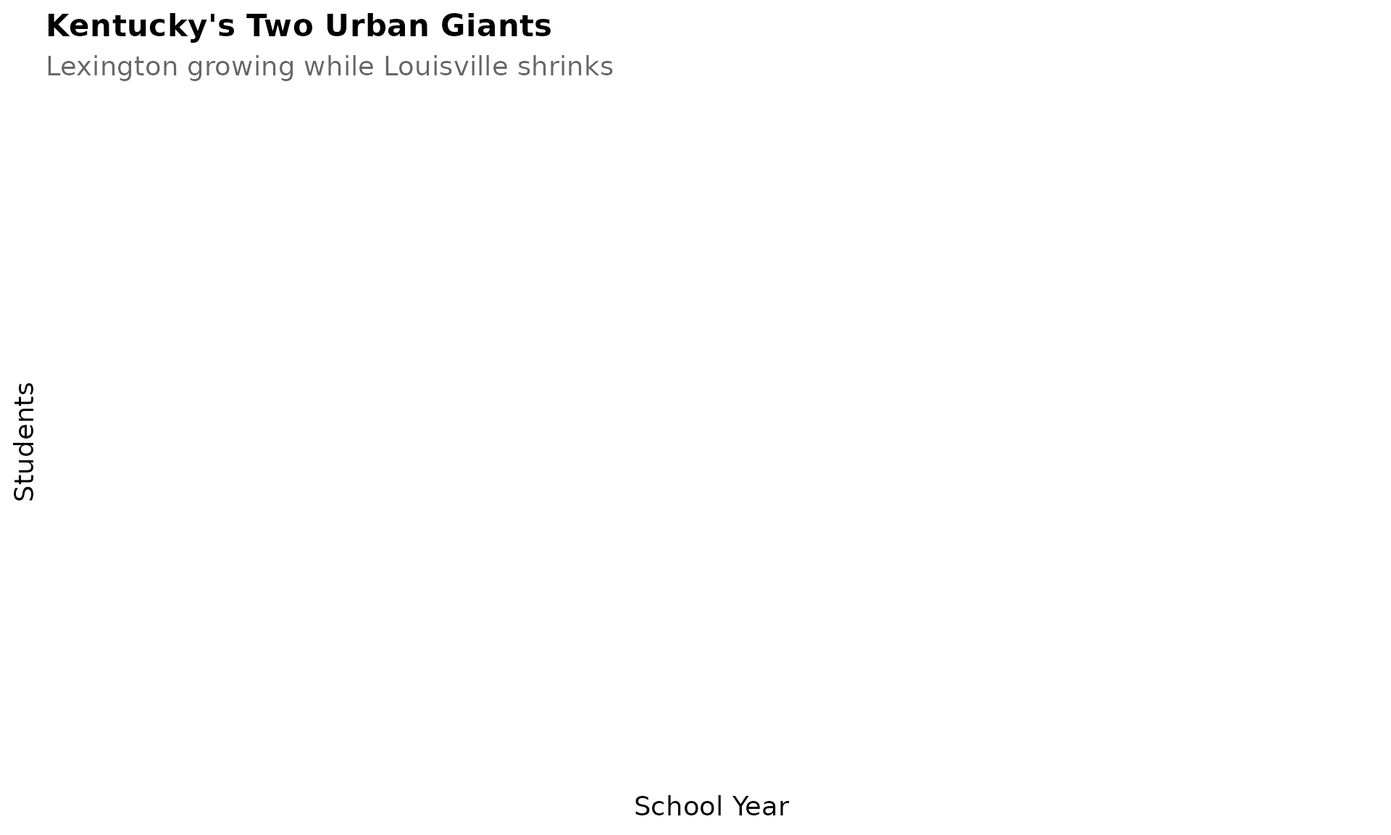
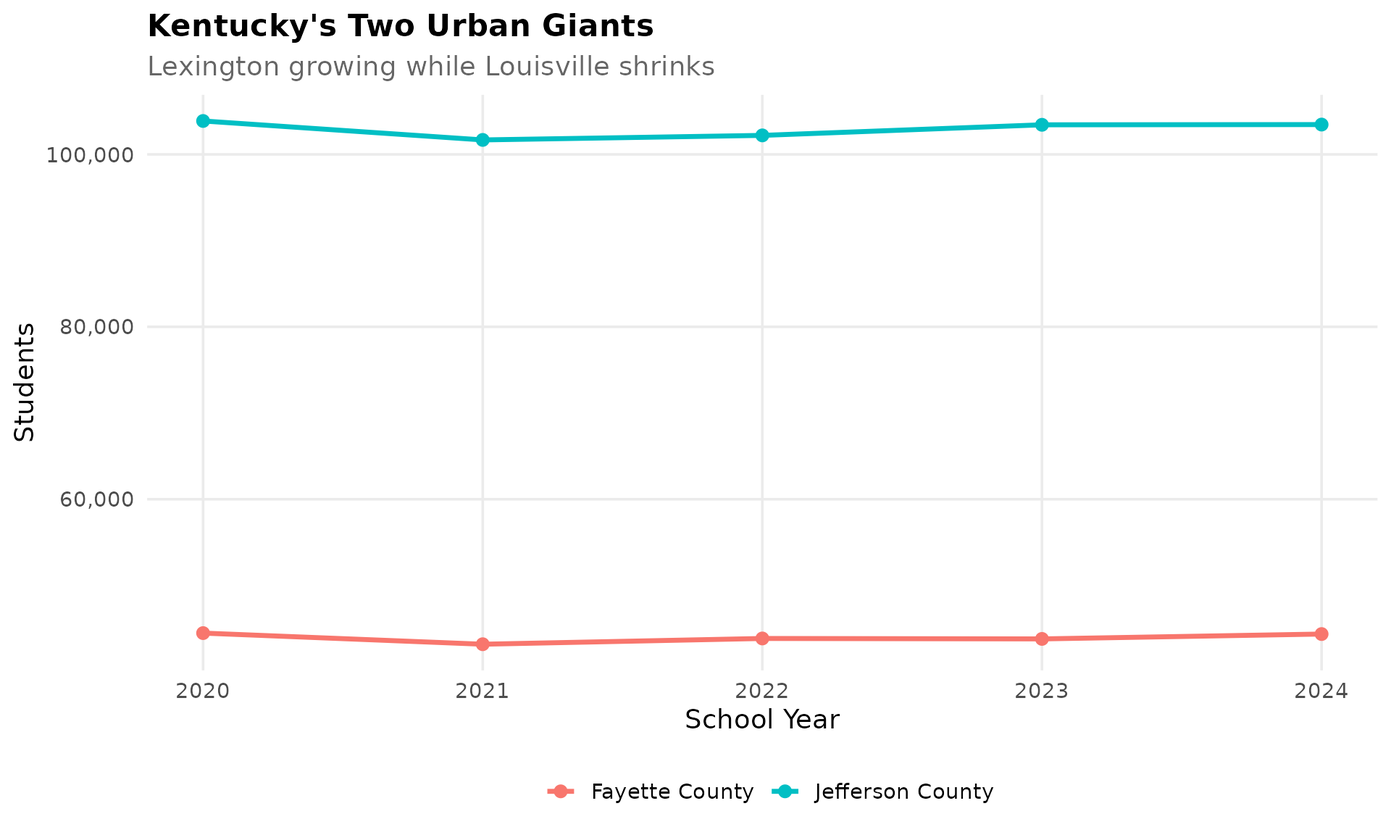
Deploying to gh-pages from @ almartin82/kyschooldata@be9de10ffe7d201cbe07642af08754ebc7ecfee8 🚀

diff --git a/articles/quickstart.html b/articles/quickstart.html
@@ -152,20 +152,27 @@ processes enrollment data:</p>
 <span></span>
 <span><span class="co"># View the first few rows</span></span>
 <span><span class="fu"><a href="https://rdrr.io/r/utils/head.html" class="external-link">head</a></span><span class="op">(</span><span class="va">enr_2024</span><span class="op">)</span></span></code></pre></div>
-<pre><code><span><span class="co">##   end_year     type district_id school_id district_name school_name grade_level</span></span>
-<span><span class="co">## 1     2024    State        &lt;NA&gt;      &lt;NA&gt;          &lt;NA&gt;        &lt;NA&gt;          PK</span></span>
-<span><span class="co">## 2     2024 District        &lt;NA&gt;      &lt;NA&gt;          &lt;NA&gt;        &lt;NA&gt;          PK</span></span>
-<span><span class="co">## 3     2024 District        &lt;NA&gt;      &lt;NA&gt;          &lt;NA&gt;        &lt;NA&gt;          PK</span></span>
-<span><span class="co">## 4     2024 District        &lt;NA&gt;      &lt;NA&gt;          &lt;NA&gt;        &lt;NA&gt;          PK</span></span>
-<span><span class="co">## 5     2024 District        &lt;NA&gt;      &lt;NA&gt;          &lt;NA&gt;        &lt;NA&gt;          PK</span></span>
-<span><span class="co">## 6     2024 District        &lt;NA&gt;      &lt;NA&gt;          &lt;NA&gt;        &lt;NA&gt;          PK</span></span>
-<span><span class="co">##           subgroup n_students pct is_state is_district is_school</span></span>
-<span><span class="co">## 1 total_enrollment     407122  NA     TRUE       FALSE     FALSE</span></span>
-<span><span class="co">## 2 total_enrollment      31467  NA    FALSE        TRUE     FALSE</span></span>
-<span><span class="co">## 3 total_enrollment      13950  NA    FALSE        TRUE     FALSE</span></span>
-<span><span class="co">## 4 total_enrollment      17517  NA    FALSE        TRUE     FALSE</span></span>
-<span><span class="co">## 5 total_enrollment       3477  NA    FALSE        TRUE     FALSE</span></span>
-<span><span class="co">## 6 total_enrollment         34  NA    FALSE        TRUE     FALSE</span></span></code></pre>
+<pre><code><span><span class="co">##   end_year     type district_id school_id district_name</span></span>
+<span><span class="co">## 1     2024    State        &lt;NA&gt;      &lt;NA&gt;          &lt;NA&gt;</span></span>
+<span><span class="co">## 2     2024 District         999      &lt;NA&gt; All Districts</span></span>
+<span><span class="co">## 3     2024 District         001      &lt;NA&gt;  Adair County</span></span>
+<span><span class="co">## 4     2024   School         001       010  Adair County</span></span>
+<span><span class="co">## 5     2024   School         001       012  Adair County</span></span>
+<span><span class="co">## 6     2024   School         001       014  Adair County</span></span>
+<span><span class="co">##                  school_name grade_level         subgroup n_students pct</span></span>
+<span><span class="co">## 1                       &lt;NA&gt;       TOTAL total_enrollment    1397078   1</span></span>
+<span><span class="co">## 2                       &lt;NA&gt;       TOTAL total_enrollment     686224   1</span></span>
+<span><span class="co">## 3                       &lt;NA&gt;       TOTAL total_enrollment       3068   1</span></span>
+<span><span class="co">## 4   Adair County High School       TOTAL total_enrollment        847   1</span></span>
+<span><span class="co">## 5     Adair Learning Academy       TOTAL total_enrollment        263   1</span></span>
+<span><span class="co">## 6 Adair County Middle School       TOTAL total_enrollment        632   1</span></span>
+<span><span class="co">##   is_state is_district is_school aggregation_flag</span></span>
+<span><span class="co">## 1     TRUE       FALSE     FALSE            state</span></span>
+<span><span class="co">## 2    FALSE        TRUE     FALSE         district</span></span>
+<span><span class="co">## 3    FALSE        TRUE     FALSE         district</span></span>
+<span><span class="co">## 4    FALSE       FALSE      TRUE           campus</span></span>
+<span><span class="co">## 5    FALSE       FALSE      TRUE           campus</span></span>
+<span><span class="co">## 6    FALSE       FALSE      TRUE           campus</span></span></code></pre>
 </div>
 <div class="section level3">
 <h3 id="understanding-the-year-parameter">Understanding the Year Parameter<a class="anchor" aria-label="anchor" href="#understanding-the-year-parameter"></a>
@@ -197,27 +204,27 @@ entity, grade level, and subgroup combination.</p>
 <span>         <span class="va">type</span>, <span class="va">grade_level</span>, <span class="va">subgroup</span>, <span class="va">n_students</span>, <span class="va">pct</span><span class="op">)</span> <span class="op"><a href="https://magrittr.tidyverse.org/reference/pipe.html" class="external-link">%&gt;%</a></span></span>
 <span>  <span class="fu"><a href="https://rdrr.io/r/utils/head.html" class="external-link">head</a></span><span class="op">(</span><span class="fl">10</span><span class="op">)</span></span></code></pre></div>
 <pre><code><span><span class="co">##    end_year district_id school_id district_name     type grade_level</span></span>
-<span><span class="co">## 1      2024        &lt;NA&gt;      &lt;NA&gt;          &lt;NA&gt;    State          PK</span></span>
-<span><span class="co">## 2      2024        &lt;NA&gt;      &lt;NA&gt;          &lt;NA&gt; District          PK</span></span>
-<span><span class="co">## 3      2024        &lt;NA&gt;      &lt;NA&gt;          &lt;NA&gt; District          PK</span></span>
-<span><span class="co">## 4      2024        &lt;NA&gt;      &lt;NA&gt;          &lt;NA&gt; District          PK</span></span>
-<span><span class="co">## 5      2024        &lt;NA&gt;      &lt;NA&gt;          &lt;NA&gt; District          PK</span></span>
-<span><span class="co">## 6      2024        &lt;NA&gt;      &lt;NA&gt;          &lt;NA&gt; District          PK</span></span>
-<span><span class="co">## 7      2024        &lt;NA&gt;      &lt;NA&gt;          &lt;NA&gt; District          PK</span></span>
-<span><span class="co">## 8      2024        &lt;NA&gt;      &lt;NA&gt;          &lt;NA&gt; District          PK</span></span>
-<span><span class="co">## 9      2024        &lt;NA&gt;      &lt;NA&gt;          &lt;NA&gt; District          PK</span></span>
-<span><span class="co">## 10     2024        &lt;NA&gt;      &lt;NA&gt;          &lt;NA&gt; District          PK</span></span>
+<span><span class="co">## 1      2024        &lt;NA&gt;      &lt;NA&gt;          &lt;NA&gt;    State       TOTAL</span></span>
+<span><span class="co">## 2      2024         999      &lt;NA&gt; All Districts District       TOTAL</span></span>
+<span><span class="co">## 3      2024         001      &lt;NA&gt;  Adair County District       TOTAL</span></span>
+<span><span class="co">## 4      2024         001       010  Adair County   School       TOTAL</span></span>
+<span><span class="co">## 5      2024         001       012  Adair County   School       TOTAL</span></span>
+<span><span class="co">## 6      2024         001       014  Adair County   School       TOTAL</span></span>
+<span><span class="co">## 7      2024         001       016  Adair County   School       TOTAL</span></span>
+<span><span class="co">## 8      2024         001       020  Adair County   School       TOTAL</span></span>
+<span><span class="co">## 9      2024         005      &lt;NA&gt;  Allen County District       TOTAL</span></span>
+<span><span class="co">## 10     2024         005       010  Allen County   School       TOTAL</span></span>
 <span><span class="co">##            subgroup n_students pct</span></span>
-<span><span class="co">## 1  total_enrollment     407122  NA</span></span>
-<span><span class="co">## 2  total_enrollment      31467  NA</span></span>
-<span><span class="co">## 3  total_enrollment      13950  NA</span></span>
-<span><span class="co">## 4  total_enrollment      17517  NA</span></span>
-<span><span class="co">## 5  total_enrollment       3477  NA</span></span>
-<span><span class="co">## 6  total_enrollment         34  NA</span></span>
-<span><span class="co">## 7  total_enrollment        591  NA</span></span>
-<span><span class="co">## 8  total_enrollment       3089  NA</span></span>
-<span><span class="co">## 9  total_enrollment         40  NA</span></span>
-<span><span class="co">## 10 total_enrollment       2056  NA</span></span></code></pre>
+<span><span class="co">## 1  total_enrollment    1397078   1</span></span>
+<span><span class="co">## 2  total_enrollment     686224   1</span></span>
+<span><span class="co">## 3  total_enrollment       3068   1</span></span>
+<span><span class="co">## 4  total_enrollment        847   1</span></span>
+<span><span class="co">## 5  total_enrollment        263   1</span></span>
+<span><span class="co">## 6  total_enrollment        632   1</span></span>
+<span><span class="co">## 7  total_enrollment        605   1</span></span>
+<span><span class="co">## 8  total_enrollment        722   1</span></span>
+<span><span class="co">## 9  total_enrollment       3336   1</span></span>
+<span><span class="co">## 10 total_enrollment       1083   1</span></span></code></pre>
 <table class="table">
 <thead><tr class="header">
 <th>Column</th>
@@ -291,7 +298,10 @@ categories:</p>
 <span><span class="va">enr_2024</span> <span class="op"><a href="https://magrittr.tidyverse.org/reference/pipe.html" class="external-link">%&gt;%</a></span></span>
 <span>  <span class="fu"><a href="https://dplyr.tidyverse.org/reference/distinct.html" class="external-link">distinct</a></span><span class="op">(</span><span class="va">subgroup</span><span class="op">)</span> <span class="op"><a href="https://magrittr.tidyverse.org/reference/pipe.html" class="external-link">%&gt;%</a></span></span>
 <span>  <span class="fu"><a href="https://dplyr.tidyverse.org/reference/pull.html" class="external-link">pull</a></span><span class="op">(</span><span class="va">subgroup</span><span class="op">)</span></span></code></pre></div>
-<pre><code><span><span class="co">## [1] "total_enrollment"</span></span></code></pre>
+<pre><code><span><span class="co">##  [1] "total_enrollment" "white"            "black"            "hispanic"        </span></span>
+<span><span class="co">##  [5] "asian"            "native_american"  "pacific_islander" "multiracial"     </span></span>
+<span><span class="co">##  [9] "male"             "female"           "special_ed"       "lep"             </span></span>
+<span><span class="co">## [13] "econ_disadv"</span></span></code></pre>
 </div>
 </div>
 <div class="section level2">
@@ -347,8 +357,8 @@ code)</li>
 <span>  <span class="fu"><a href="https://dplyr.tidyverse.org/reference/filter.html" class="external-link">filter</a></span><span class="op">(</span><span class="va">is_district</span>, <span class="va">subgroup</span> <span class="op">==</span> <span class="st">"total_enrollment"</span>, <span class="va">grade_level</span> <span class="op">==</span> <span class="st">"TOTAL"</span><span class="op">)</span> <span class="op"><a href="https://magrittr.tidyverse.org/reference/pipe.html" class="external-link">%&gt;%</a></span></span>
 <span>  <span class="fu"><a href="https://dplyr.tidyverse.org/reference/filter.html" class="external-link">filter</a></span><span class="op">(</span><span class="fu"><a href="https://rdrr.io/r/base/grep.html" class="external-link">grepl</a></span><span class="op">(</span><span class="st">"Jefferson"</span>, <span class="va">district_name</span>, ignore.case <span class="op">=</span> <span class="cn">TRUE</span><span class="op">)</span><span class="op">)</span> <span class="op"><a href="https://magrittr.tidyverse.org/reference/pipe.html" class="external-link">%&gt;%</a></span></span>
 <span>  <span class="fu"><a href="https://dplyr.tidyverse.org/reference/select.html" class="external-link">select</a></span><span class="op">(</span><span class="va">district_id</span>, <span class="va">district_name</span>, <span class="va">n_students</span><span class="op">)</span></span></code></pre></div>
-<pre><code><span><span class="co">## [1] district_id   district_name n_students   </span></span>
-<span><span class="co">## &lt;0 rows&gt; (or 0-length row.names)</span></span></code></pre>
+<pre><code><span><span class="co">##   district_id    district_name n_students</span></span>
+<span><span class="co">## 1         275 Jefferson County     103459</span></span></code></pre>
 </div>
 </div>
 <div class="section level2">
@@ -376,8 +386,8 @@ code)</li>
 <span><span class="va">enr_2024</span> <span class="op"><a href="https://magrittr.tidyverse.org/reference/pipe.html" class="external-link">%&gt;%</a></span></span>
 <span>  <span class="fu"><a href="https://dplyr.tidyverse.org/reference/filter.html" class="external-link">filter</a></span><span class="op">(</span><span class="va">is_state</span>, <span class="va">subgroup</span> <span class="op">==</span> <span class="st">"total_enrollment"</span>, <span class="va">grade_level</span> <span class="op">==</span> <span class="st">"TOTAL"</span><span class="op">)</span> <span class="op"><a href="https://magrittr.tidyverse.org/reference/pipe.html" class="external-link">%&gt;%</a></span></span>
 <span>  <span class="fu"><a href="https://dplyr.tidyverse.org/reference/select.html" class="external-link">select</a></span><span class="op">(</span><span class="va">end_year</span>, <span class="va">n_students</span><span class="op">)</span></span></code></pre></div>
-<pre><code><span><span class="co">## [1] end_year   n_students</span></span>
-<span><span class="co">## &lt;0 rows&gt; (or 0-length row.names)</span></span></code></pre>
+<pre><code><span><span class="co">##   end_year n_students</span></span>
+<span><span class="co">## 1     2024    1397078</span></span></code></pre>
 <div class="sourceCode" id="cb16"><pre class="downlit sourceCode r">
 <code class="sourceCode R"><span><span class="co"># Top 10 districts by enrollment</span></span>
 <span><span class="va">enr_2024</span> <span class="op"><a href="https://magrittr.tidyverse.org/reference/pipe.html" class="external-link">%&gt;%</a></span></span>
@@ -385,16 +395,28 @@ code)</li>
 <span>  <span class="fu"><a href="https://dplyr.tidyverse.org/reference/arrange.html" class="external-link">arrange</a></span><span class="op">(</span><span class="fu"><a href="https://dplyr.tidyverse.org/reference/desc.html" class="external-link">desc</a></span><span class="op">(</span><span class="va">n_students</span><span class="op">)</span><span class="op">)</span> <span class="op"><a href="https://magrittr.tidyverse.org/reference/pipe.html" class="external-link">%&gt;%</a></span></span>
 <span>  <span class="fu"><a href="https://dplyr.tidyverse.org/reference/select.html" class="external-link">select</a></span><span class="op">(</span><span class="va">district_name</span>, <span class="va">n_students</span><span class="op">)</span> <span class="op"><a href="https://magrittr.tidyverse.org/reference/pipe.html" class="external-link">%&gt;%</a></span></span>
 <span>  <span class="fu"><a href="https://rdrr.io/r/utils/head.html" class="external-link">head</a></span><span class="op">(</span><span class="fl">10</span><span class="op">)</span></span></code></pre></div>
-<pre><code><span><span class="co">## [1] district_name n_students   </span></span>
-<span><span class="co">## &lt;0 rows&gt; (or 0-length row.names)</span></span></code></pre>
+<pre><code><span><span class="co">##       district_name n_students</span></span>
+<span><span class="co">## 1     All Districts     686224</span></span>
+<span><span class="co">## 2  Jefferson County     103459</span></span>
+<span><span class="co">## 3    Fayette County      44362</span></span>
+<span><span class="co">## 4      Boone County      21583</span></span>
+<span><span class="co">## 5     Warren County      20394</span></span>
+<span><span class="co">## 6     Hardin County      16287</span></span>
+<span><span class="co">## 7     Kenton County      14645</span></span>
+<span><span class="co">## 8    Bullitt County      13674</span></span>
+<span><span class="co">## 9     Oldham County      12546</span></span>
+<span><span class="co">## 10   Daviess County      12011</span></span></code></pre>
 <div class="sourceCode" id="cb18"><pre class="downlit sourceCode r">
 <code class="sourceCode R"><span><span class="co"># Demographics for state</span></span>
 <span><span class="va">enr_2024</span> <span class="op"><a href="https://magrittr.tidyverse.org/reference/pipe.html" class="external-link">%&gt;%</a></span></span>
 <span>  <span class="fu"><a href="https://dplyr.tidyverse.org/reference/filter.html" class="external-link">filter</a></span><span class="op">(</span><span class="va">is_state</span>, <span class="va">grade_level</span> <span class="op">==</span> <span class="st">"TOTAL"</span>,</span>
 <span>         <span class="va">subgroup</span> <span class="op"><a href="https://rdrr.io/r/base/match.html" class="external-link">%in%</a></span> <span class="fu"><a href="https://rdrr.io/r/base/c.html" class="external-link">c</a></span><span class="op">(</span><span class="st">"white"</span>, <span class="st">"black"</span>, <span class="st">"hispanic"</span>, <span class="st">"asian"</span><span class="op">)</span><span class="op">)</span> <span class="op"><a href="https://magrittr.tidyverse.org/reference/pipe.html" class="external-link">%&gt;%</a></span></span>
 <span>  <span class="fu"><a href="https://dplyr.tidyverse.org/reference/select.html" class="external-link">select</a></span><span class="op">(</span><span class="va">subgroup</span>, <span class="va">n_students</span>, <span class="va">pct</span><span class="op">)</span></span></code></pre></div>
-<pre><code><span><span class="co">## [1] subgroup   n_students pct       </span></span>
-<span><span class="co">## &lt;0 rows&gt; (or 0-length row.names)</span></span></code></pre>
+<pre><code><span><span class="co">##   subgroup n_students        pct</span></span>
+<span><span class="co">## 1    white     994258 0.71166964</span></span>
+<span><span class="co">## 2    black     152218 0.10895455</span></span>
+<span><span class="co">## 3 hispanic     141735 0.10145103</span></span>
+<span><span class="co">## 4    asian      29203 0.02090291</span></span></code></pre>
 </div>
 </div>
 <div class="section level2">
@@ -411,8 +433,12 @@ code)</li>
 <span><span class="va">enr_recent</span> <span class="op"><a href="https://magrittr.tidyverse.org/reference/pipe.html" class="external-link">%&gt;%</a></span></span>
 <span>  <span class="fu"><a href="https://dplyr.tidyverse.org/reference/filter.html" class="external-link">filter</a></span><span class="op">(</span><span class="va">is_state</span>, <span class="va">subgroup</span> <span class="op">==</span> <span class="st">"total_enrollment"</span>, <span class="va">grade_level</span> <span class="op">==</span> <span class="st">"TOTAL"</span><span class="op">)</span> <span class="op"><a href="https://magrittr.tidyverse.org/reference/pipe.html" class="external-link">%&gt;%</a></span></span>
 <span>  <span class="fu"><a href="https://dplyr.tidyverse.org/reference/select.html" class="external-link">select</a></span><span class="op">(</span><span class="va">end_year</span>, <span class="va">n_students</span><span class="op">)</span></span></code></pre></div>
-<pre><code><span><span class="co">## [1] end_year   n_students</span></span>
-<span><span class="co">## &lt;0 rows&gt; (or 0-length row.names)</span></span></code></pre>
+<pre><code><span><span class="co">##   end_year n_students</span></span>
+<span><span class="co">## 1     2020    1472317</span></span>
+<span><span class="co">## 2     2021    1434970</span></span>
+<span><span class="co">## 3     2022    1451381</span></span>
+<span><span class="co">## 4     2023    1456127</span></span>
+<span><span class="co">## 5     2024    1397078</span></span></code></pre>
 </div>
 <div class="section level3">
 <h3 id="historical-analysis">Historical Analysis<a class="anchor" aria-label="anchor" href="#historical-analysis"></a>

diff --git a/articles/quickstart.md b/articles/quickstart.md
@@ -64,20 +64,27 @@ enr_2024 <- fetch_enr(2024)
 head(enr_2024)
 ```
 
-    ##   end_year     type district_id school_id district_name school_name grade_level
-    ## 1     2024    State        <NA>      <NA>          <NA>        <NA>          PK
-    ## 2     2024 District        <NA>      <NA>          <NA>        <NA>          PK
-    ## 3     2024 District        <NA>      <NA>          <NA>        <NA>          PK
-    ## 4     2024 District        <NA>      <NA>          <NA>        <NA>          PK
-    ## 5     2024 District        <NA>      <NA>          <NA>        <NA>          PK
-    ## 6     2024 District        <NA>      <NA>          <NA>        <NA>          PK
-    ##           subgroup n_students pct is_state is_district is_school
-    ## 1 total_enrollment     407122  NA     TRUE       FALSE     FALSE
-    ## 2 total_enrollment      31467  NA    FALSE        TRUE     FALSE
-    ## 3 total_enrollment      13950  NA    FALSE        TRUE     FALSE
-    ## 4 total_enrollment      17517  NA    FALSE        TRUE     FALSE
-    ## 5 total_enrollment       3477  NA    FALSE        TRUE     FALSE
-    ## 6 total_enrollment         34  NA    FALSE        TRUE     FALSE
+    ##   end_year     type district_id school_id district_name
+    ## 1     2024    State        <NA>      <NA>          <NA>
+    ## 2     2024 District         999      <NA> All Districts
+    ## 3     2024 District         001      <NA>  Adair County
+    ## 4     2024   School         001       010  Adair County
+    ## 5     2024   School         001       012  Adair County
+    ## 6     2024   School         001       014  Adair County
+    ##                  school_name grade_level         subgroup n_students pct
+    ## 1                       <NA>       TOTAL total_enrollment    1397078   1
+    ## 2                       <NA>       TOTAL total_enrollment     686224   1
+    ## 3                       <NA>       TOTAL total_enrollment       3068   1
+    ## 4   Adair County High School       TOTAL total_enrollment        847   1
+    ## 5     Adair Learning Academy       TOTAL total_enrollment        263   1
+    ## 6 Adair County Middle School       TOTAL total_enrollment        632   1
+    ##   is_state is_district is_school aggregation_flag
+    ## 1     TRUE       FALSE     FALSE            state
+    ## 2    FALSE        TRUE     FALSE         district
+    ## 3    FALSE        TRUE     FALSE         district
+    ## 4    FALSE       FALSE      TRUE           campus
+    ## 5    FALSE       FALSE      TRUE           campus
+    ## 6    FALSE       FALSE      TRUE           campus
 
 ### Understanding the Year Parameter
 
@@ -105,27 +112,27 @@ enr_2024 %>%
 ```
 
     ##    end_year district_id school_id district_name     type grade_level
-    ## 1      2024        <NA>      <NA>          <NA>    State          PK
-    ## 2      2024        <NA>      <NA>          <NA> District          PK
-    ## 3      2024        <NA>      <NA>          <NA> District          PK
-    ## 4      2024        <NA>      <NA>          <NA> District          PK
-    ## 5      2024        <NA>      <NA>          <NA> District          PK
-    ## 6      2024        <NA>      <NA>          <NA> District          PK
-    ## 7      2024        <NA>      <NA>          <NA> District          PK
-    ## 8      2024        <NA>      <NA>          <NA> District          PK
-    ## 9      2024        <NA>      <NA>          <NA> District          PK
-    ## 10     2024        <NA>      <NA>          <NA> District          PK
+    ## 1      2024        <NA>      <NA>          <NA>    State       TOTAL
+    ## 2      2024         999      <NA> All Districts District       TOTAL
+    ## 3      2024         001      <NA>  Adair County District       TOTAL
+    ## 4      2024         001       010  Adair County   School       TOTAL
+    ## 5      2024         001       012  Adair County   School       TOTAL
+    ## 6      2024         001       014  Adair County   School       TOTAL
+    ## 7      2024         001       016  Adair County   School       TOTAL
+    ## 8      2024         001       020  Adair County   School       TOTAL
+    ## 9      2024         005      <NA>  Allen County District       TOTAL
+    ## 10     2024         005       010  Allen County   School       TOTAL
     ##            subgroup n_students pct
-    ## 1  total_enrollment     407122  NA
-    ## 2  total_enrollment      31467  NA
-    ## 3  total_enrollment      13950  NA
-    ## 4  total_enrollment      17517  NA
-    ## 5  total_enrollment       3477  NA
-    ## 6  total_enrollment         34  NA
-    ## 7  total_enrollment        591  NA
-    ## 8  total_enrollment       3089  NA
-    ## 9  total_enrollment         40  NA
-    ## 10 total_enrollment       2056  NA
+    ## 1  total_enrollment    1397078   1
+    ## 2  total_enrollment     686224   1
+    ## 3  total_enrollment       3068   1
+    ## 4  total_enrollment        847   1
+    ## 5  total_enrollment        263   1
+    ## 6  total_enrollment        632   1
+    ## 7  total_enrollment        605   1
+    ## 8  total_enrollment        722   1
+    ## 9  total_enrollment       3336   1
+    ## 10 total_enrollment       1083   1
 
 | Column          | Description                                 |
 |-----------------|---------------------------------------------|
@@ -156,7 +163,10 @@ enr_2024 %>%
   pull(subgroup)
 ```
 
-    ## [1] "total_enrollment"
+    ##  [1] "total_enrollment" "white"            "black"            "hispanic"        
+    ##  [5] "asian"            "native_american"  "pacific_islander" "multiracial"     
+    ##  [9] "male"             "female"           "special_ed"       "lep"             
+    ## [13] "econ_disadv"
 
 ## Working with District IDs
 
@@ -185,8 +195,8 @@ enr_2024 %>%
   select(district_id, district_name, n_students)
 ```
 
-    ## [1] district_id   district_name n_students   
-    ## <0 rows> (or 0-length row.names)
+    ##   district_id    district_name n_students
+    ## 1         275 Jefferson County     103459
 
 ## Filtering Data
 
@@ -214,8 +224,8 @@ enr_2024 %>%
   select(end_year, n_students)
 ```
 
-    ## [1] end_year   n_students
-    ## <0 rows> (or 0-length row.names)
+    ##   end_year n_students
+    ## 1     2024    1397078
 
 ``` r
 # Top 10 districts by enrollment
@@ -226,8 +236,17 @@ enr_2024 %>%
   head(10)
 ```
 
-    ## [1] district_name n_students   
-    ## <0 rows> (or 0-length row.names)
+    ##       district_name n_students
+    ## 1     All Districts     686224
+    ## 2  Jefferson County     103459
+    ## 3    Fayette County      44362
+    ## 4      Boone County      21583
+    ## 5     Warren County      20394
+    ## 6     Hardin County      16287
+    ## 7     Kenton County      14645
+    ## 8    Bullitt County      13674
+    ## 9     Oldham County      12546
+    ## 10   Daviess County      12011
 
 ``` r
 # Demographics for state
@@ -237,8 +256,11 @@ enr_2024 %>%
   select(subgroup, n_students, pct)
 ```
 
-    ## [1] subgroup   n_students pct       
-    ## <0 rows> (or 0-length row.names)
+    ##   subgroup n_students        pct
+    ## 1    white     994258 0.71166964
+    ## 2    black     152218 0.10895455
+    ## 3 hispanic     141735 0.10145103
+    ## 4    asian      29203 0.02090291
 
 ## Multi-Year Analysis
 
@@ -254,8 +276,12 @@ enr_recent %>%
   select(end_year, n_students)
 ```
 
-    ## [1] end_year   n_students
-    ## <0 rows> (or 0-length row.names)
+    ##   end_year n_students
+    ## 1     2020    1472317
+    ## 2     2021    1434970
+    ## 3     2022    1451381
+    ## 4     2023    1456127
+    ## 5     2024    1397078
 
 ### Historical Analysis
 
